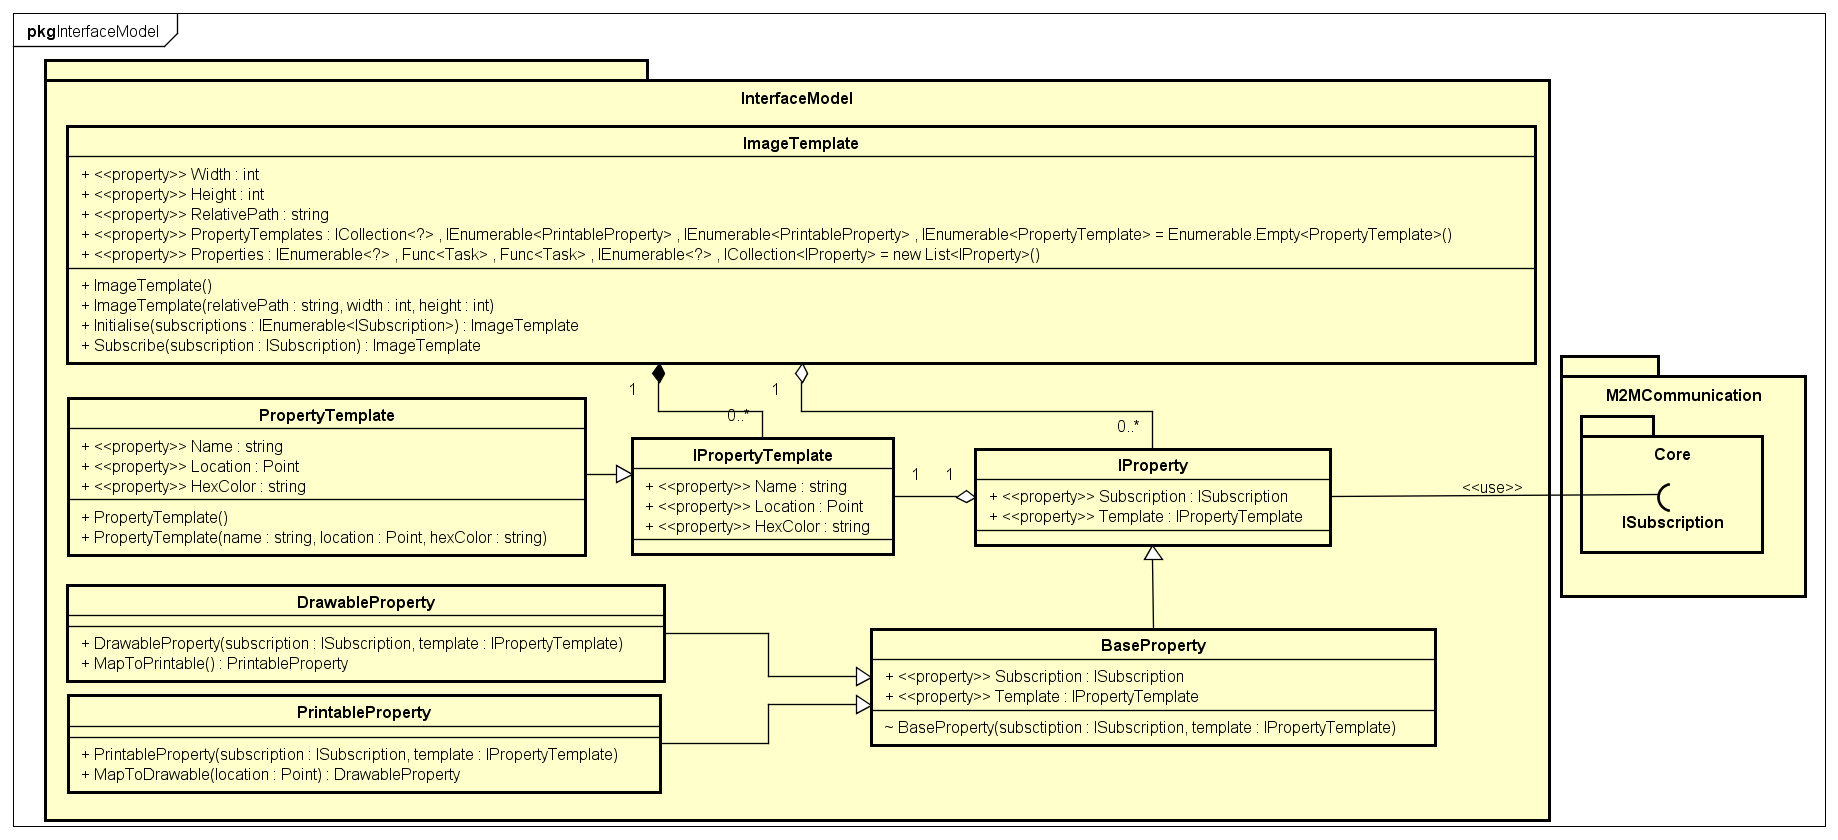
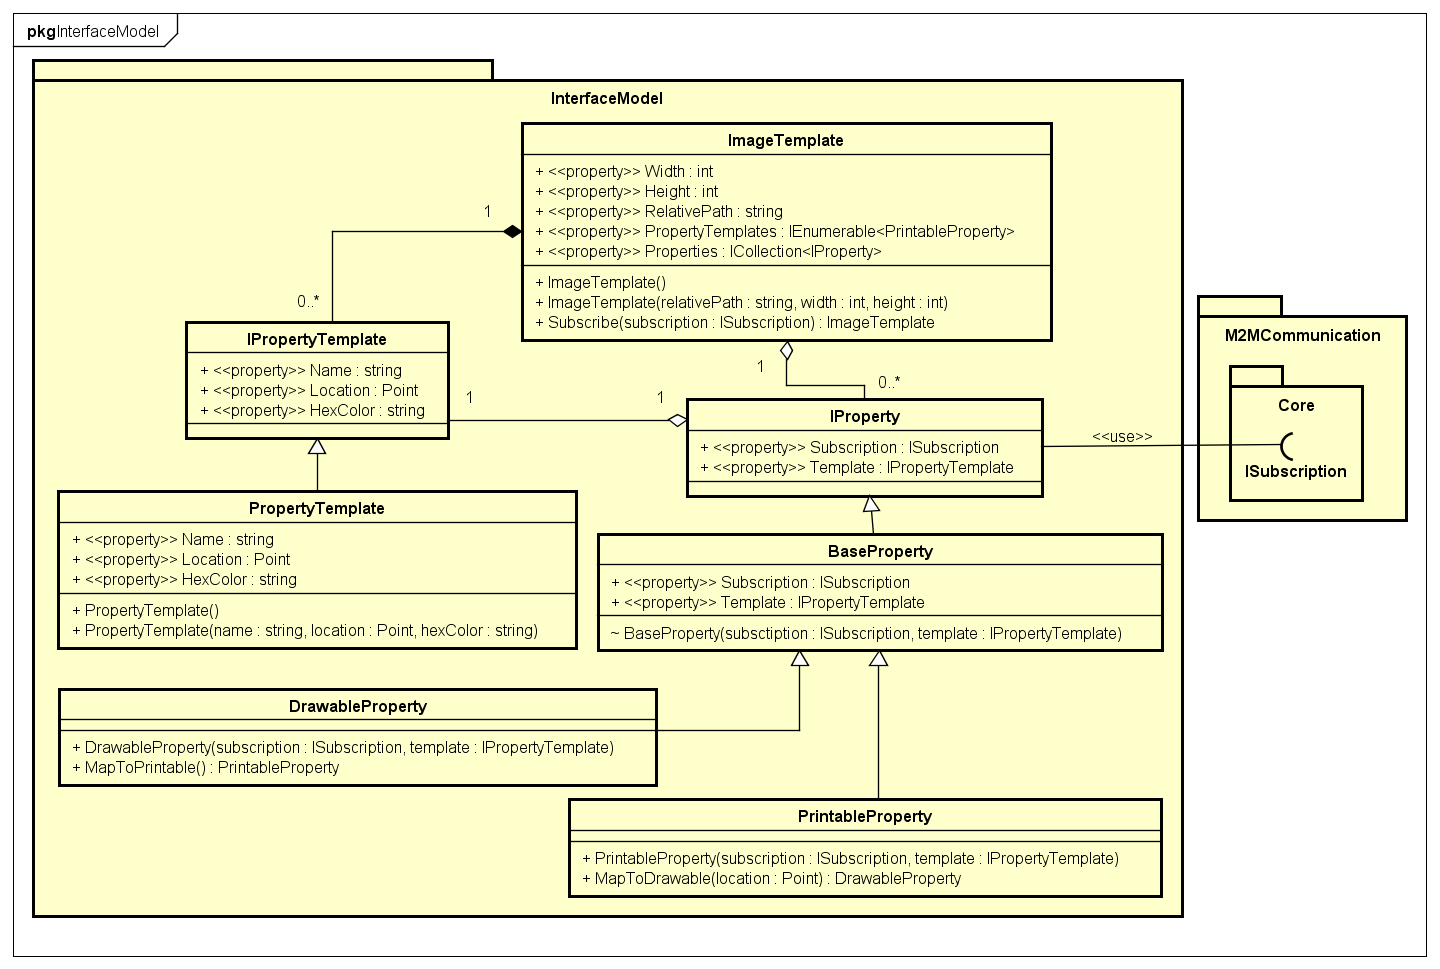
Updated class diagrams

Changed region(s): [[0.0, 0.0, 1.0, 0.9905]]

diff --git a/ReactiveInterface/InterfaceModel/Model/ImageTemplate.cs b/ReactiveInterface/InterfaceModel/Model/ImageTemplate.cs
@@ -33,15 +33,6 @@ namespace InterfaceModel.Model
             RelativePath = relativePath;
         }
 
-        public ImageTemplate Initialise(IEnumerable<ISubscription> subscriptions)
-        {
-            foreach (ISubscription subscription in subscriptions)
-            {
-                Subscribe(subscription);
-            }
-            return this;
-        }
-
         public ImageTemplate Subscribe(ISubscription subscription)
         {
             if (PropertyTemplates

diff --git a/ReactiveInterface/ReactiveInterface/README.md b/ReactiveInterface/ReactiveInterface/README.md
@@ -4,4 +4,4 @@ Project that targets handling received data from M2M communication. Contains a s
 
 ## UML class diagram
 
-![Reactive interface class diagram](MessageParsingUML.png)
+![Reactive interface class diagram](ReactiveInterfaceUML.png)
